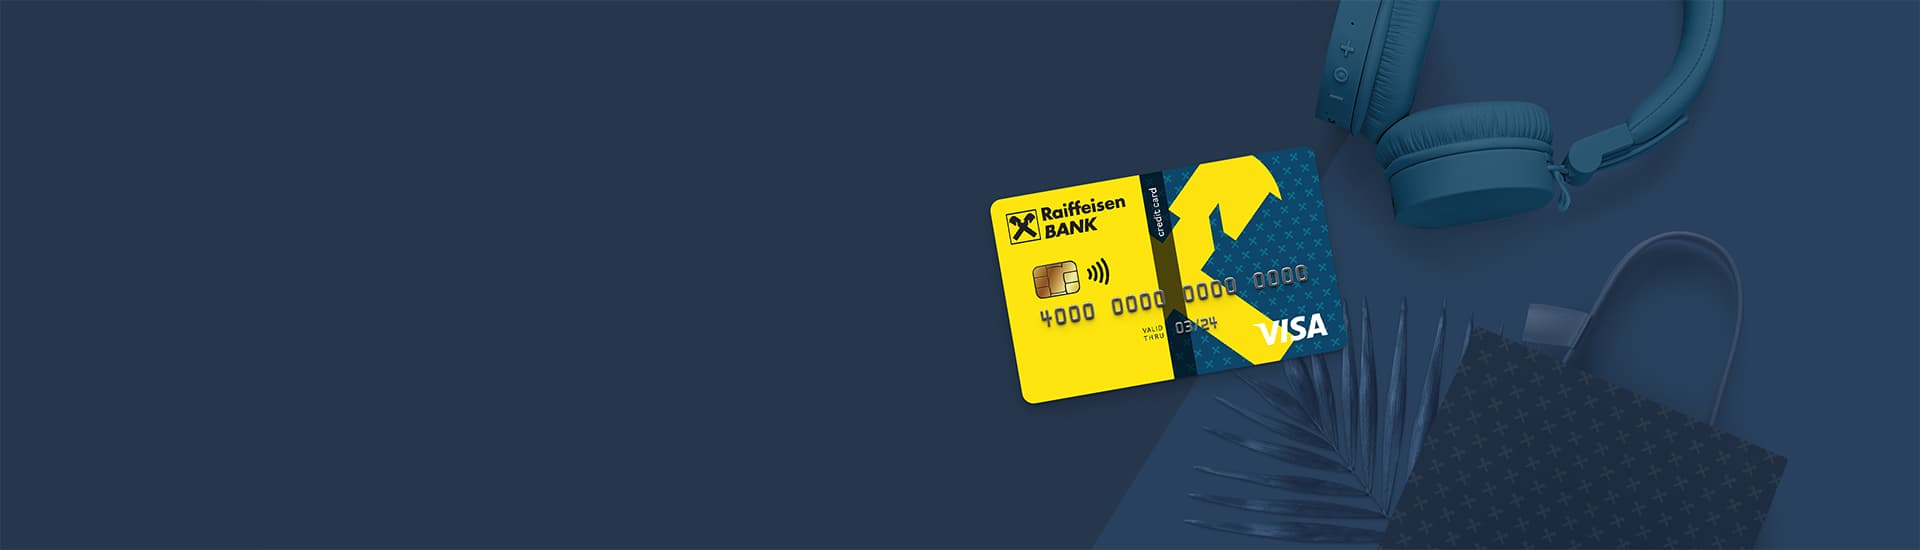
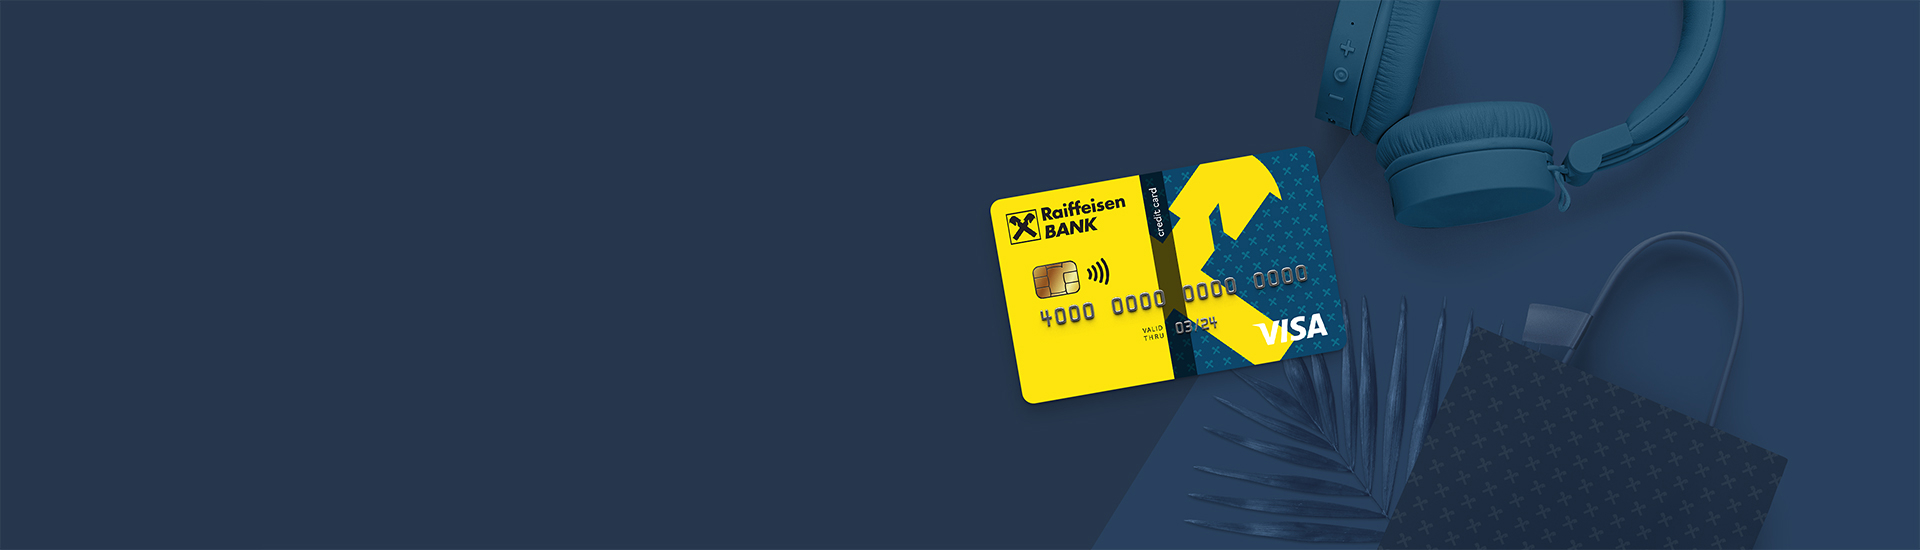
finalization

diff --git a/landing-markup/js/components/calculator.js b/landing-markup/js/components/calculator.js
@@ -1,18 +1,3 @@
-// function calculator() {
-//   var rangeSum=document.getElementById('js-calculator__range-sum'); 
-//   var rangeDate=document.getElementById('js-calculator__range-date'); 
-//   var sum=document.getElementById('js-calculator__sum');
-//   var date=document.getElementById('js-calculator__date');
-//   var payment=document.getElementById('js-calculator__payment');
-//   var rate=Number.parseInt(document.getElementById('js-calculator__rate').innerHTML);
-//   var koef;
-
-//   i = (rate / 12) / 100;
-//   koef = (i * (Math.pow(1 + i, rangeDate.value))) / (Math.pow(1 + i, rangeDate.value) - 1);
-//   payment.innerHTML=(rangeSum.value * koef).toFixed();
-//   sum.innerHTML=rangeSum.value;
-//   date.innerHTML=rangeDate.value;
-// }
 var sliderSum = document.getElementById('js-calculator__slider-sum');
 var sliderDate = document.getElementById('js-calculator__slider-date');
 var sum=document.getElementById('js-calculator__sum');

diff --git a/landing-markup/index.html b/landing-markup/index.html
@@ -33,7 +33,7 @@
         <span class="promo__desktop">Бесплатное обслуживание</span>
         <span class="promo__mobile">Обслуживание 0₽</span>
       </a>
-      <h1 class="promo__title h1">Кредитная карта с&nbsp;кэшбэком <span class="promo__title-accentuated">1,5%</span></h1>
+      <h1 class="promo__title h1">Кредитная карта с&nbsp;кэшбэком <span class="promo__title-accentuated">1,5</span>%</h1>
       <a href="#" class="promo__button button button__yellow">Оформить онлайн</a>
     </div>
   </div>

diff --git a/landing-markup/css/style.css b/landing-markup/css/style.css
@@ -428,6 +428,7 @@ button {
 .promo {
   color: #ffffff;
   background-image: url(../images/promo-desk.jpg);
+  background-position: left 50% bottom -30px;
   background-color: #26364d;
   background-repeat: no-repeat;
   background-position: center;
@@ -494,7 +495,7 @@ button {
 
 @media screen and (max-width: 1023px) {
   .promo__title {
-    max-width: 340px;
+    max-width: 315px;
   }
 }
 

diff --git a/landing-markup/scss/_main.scss b/landing-markup/scss/_main.scss
@@ -13,6 +13,7 @@
 
   @include mobile {
     background-image: url(../images/promo-mob.jpg);
+    background-position: left 50% bottom -30px;
     padding: 24px 0 0;
     margin-bottom: 54px;
     position: relative;
@@ -57,7 +58,7 @@
   margin-bottom: 41px;
 
   @include tablet {
-    max-width: 340px;
+    max-width: 315px;
   }
 }
 
